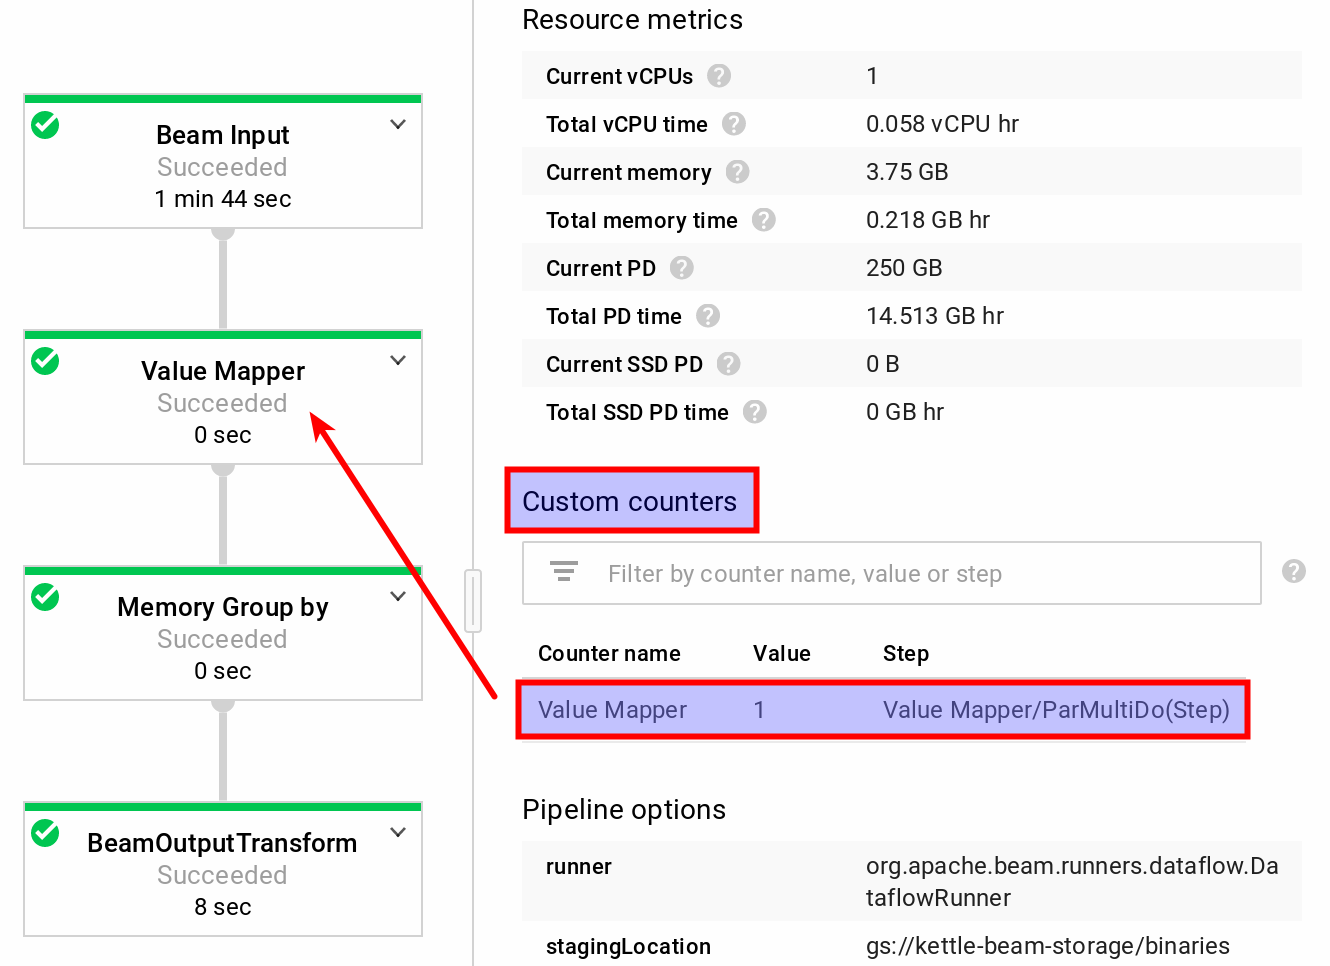
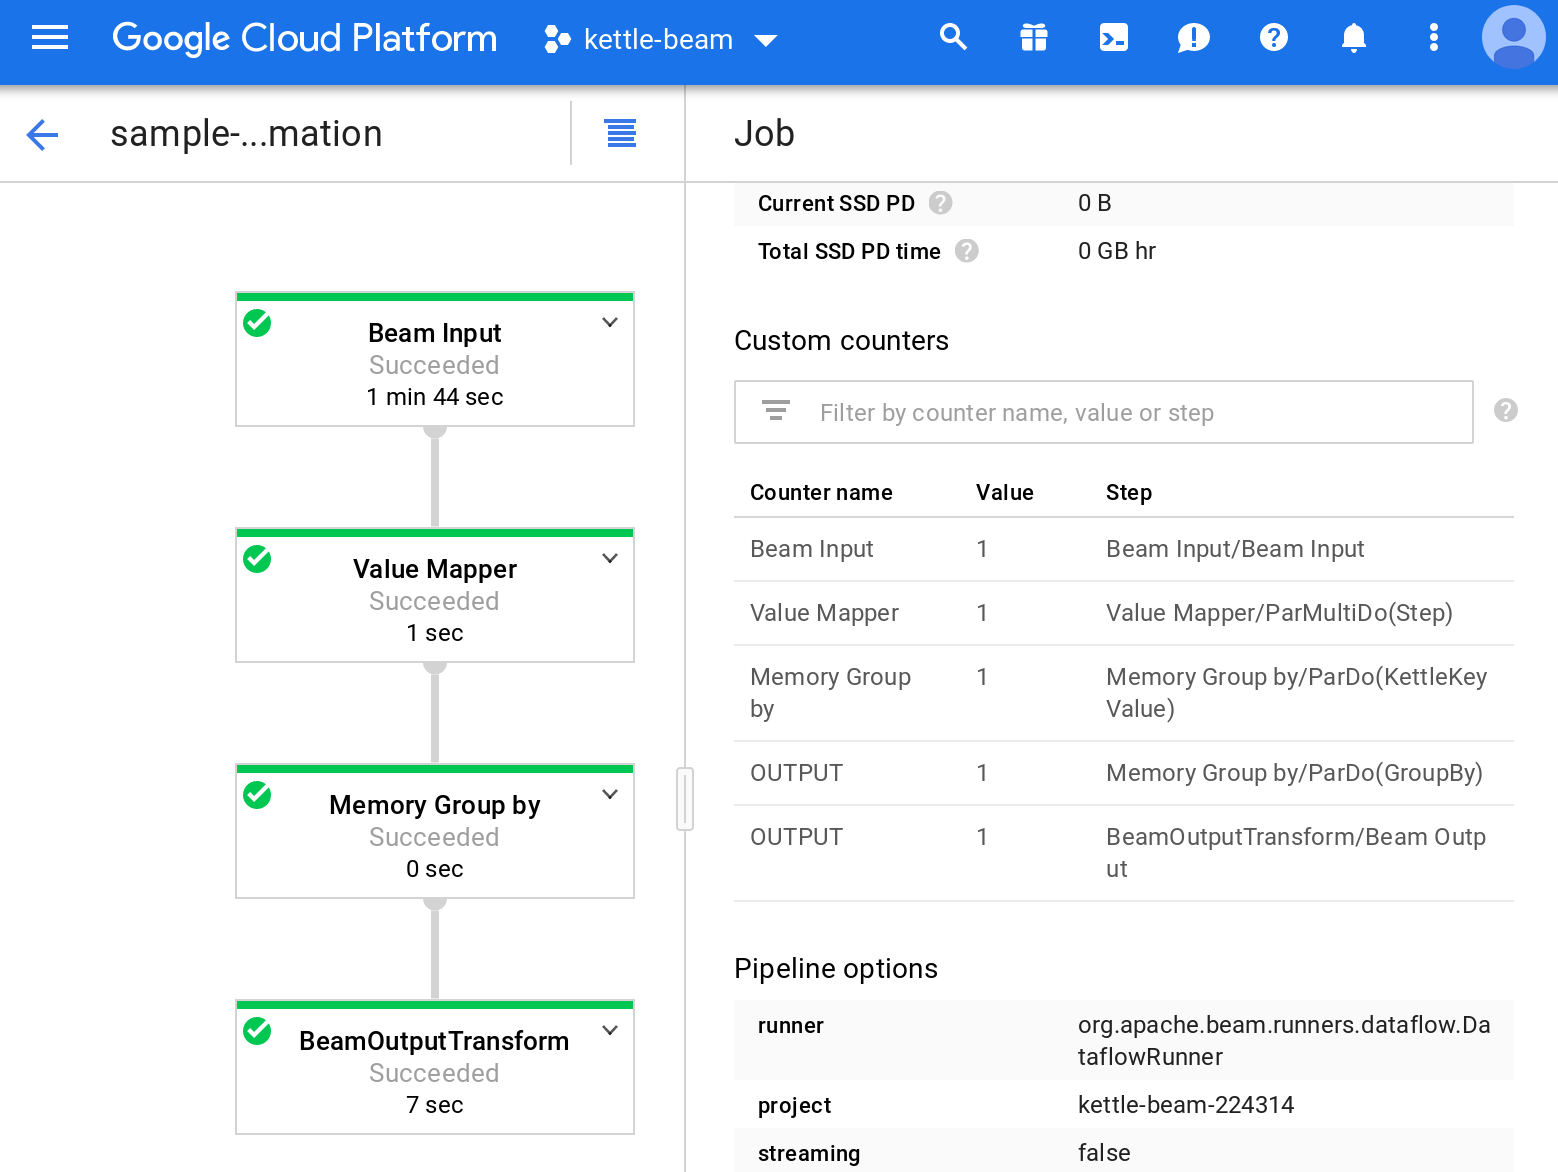
reflected recent changes to kettle-beam

diff --git a/_posts/2018-12-01-Kettle-Beam.md b/_posts/2018-12-01-Kettle-Beam.md
@@ -26,15 +26,41 @@ So here we are today looking at the rapidly evolving **Kettle Beam** project, th
 
 > **Important**: Kettle Beam Plugin is **currently under heavy development** and it's only a few days old (2018-12-01). It goes without saying that **you must not use this plugin in production**.
 
-**Special thanks** goes to **Matt Casters** for providing a lot of info for this article.
+> **Special thanks**: goes to **Matt Casters** for providing a lot of info for this article and spending a lot of his spare time in writing this very plugin we discuss here.
+
+> **Info**: For those of you who are confused why I mentioned **Kettle** quite often at the same time as **PDI** ... the reason is simple: Kettle used to be the original name to this data integration tool - before Pentaho made it part of their stack and it subsequently called it Pentaho Data Integration (PDI).
 
 **THIS ARTICLE IS STILL DEVELOPING ...**
 
-# Download Pentaho Data Integration (PDI)
+Well, why not start the article with the **art of the possible**? This is a **Kettle Beam Pipeline** Matt Casters generated to demo one of the first working more complex setups. At the top you see how the pipeline looks in Kettle/PDI's graphic design tool called **Spoon** (the pipeline is called a transformation there) and at he bottom you see the graph of the same pipeline in **Google Cloud Platform DataFlow**:
 
-You can find the **PDI package** on [Sourceforge](https://sourceforge.net/projects/pentaho/files/). Just pick the latest version 8.1 (at the time of this writing). Once downloaded, unzip it in a convenient folder and that's basically all there is to installation. Inside the PDI folder you find the `spoon.sh` file (or `spoon.bat` on Windows), which will start the GUI of the designer.
+![](/images/kettle-beam/kettle-beam-20.jpeg)
 
-# Building the plugin
+As you can see creating a **Beam Pipeline** in **Spoon** does not involve writing a single line of code ... it's all drag and drop of predefined components (steps), which you can configure.
+
+# Download Kettle/Pentaho Data Integration (PDI)
+
+You can find the **PDI package** on [Sourceforge](https://sourceforge.net/projects/pentaho/files/). Just pick the latest version 8.2. Once downloaded, unzip it in a convenient folder and that's basically all there is to installation. Inside the PDI folder you find the `spoon.sh` file (or `spoon.bat` on Windows), which will start the GUI of the designer.
+
+> **Note**: The **Kettle Beam Plugin** required Kettle/PDI v8.1 or v8.2.
+
+# Adding the Kettle Beam Plugin
+
+## Downloading the precompiled Plugin
+
+This is the easiest way of installing the plugin:
+
+1. **Download** the plugin from [here](https://s3-eu-west-1.amazonaws.com/kettle-eu/kettle-beam-20181210.zip).
+2. **Unzip** the the file.
+3. **Copy** the folder into the `plugin` folder within the **PDI folder**.
+4. **Start** Spoon: 
+
+```bash
+$ cd $PDI_DIR
+$ ./spoon.sh
+```
+
+##  Building the Plugin from Source
 
 Install Maven, in example like so (adjust to your own setup):
 
@@ -67,7 +93,7 @@ cd ~/.m2
 wget https://raw.githubusercontent.com/pentaho/maven-parent-poms/master/maven-support-files/settings.xml
 ```
 
-## Phase 1: kettle-beam-core
+### Phase 1: kettle-beam-core
 
 ```bash
 cd ~/git
@@ -82,7 +108,7 @@ Copy the `target/kettle-beam-[VERSION].jar` your the PDI `lib/` folder, e.g.:
 cp target/kettle-beam-core-0.0.4-SNAPSHOT.jar ~/apps/pdi-ce-8.1/lib
 ```
 
-## Phase 2: kettle-beam
+### Phase 2: kettle-beam
 
 Clone the plugin and start the build:
 
@@ -111,7 +137,7 @@ cp target/lib/* ~/apps/pdi-ce-8.1/lib
 rm -r ~/apps/pdi-ce-8.1/system/karaf/caches
 ```
 
-## Rapid rebuild
+### Rapid rebuild
 
 Since this project is in rapid development, you will have to rebuild the plugin regulary. Here is a small (but not perfect) **utility script** to rebuild the plugin (adjust variables):
 
@@ -179,7 +205,9 @@ Drag and drop the **Beam Input** step onto the **canvas** and double click on it
 
 ![](/images/kettle-beam/kettle-beam-4.png)
 
-> **Note**: The **Beam Input** step uses the **Beam API** for now (TextIO or some such) to read the data. This is not directly done by PDI, which makes a lot of sense since the [Beam I/O Transforms](https://beam.apache.org/documentation/io/built-in/) are more than just simple readers and writers. OPEN: What advantages do they bring?
+> **Note**: The **Beam Input** step uses the **Beam API** (TextIO or some such) to read the data. This is not directly done by PDI, which makes a lot of sense since the [Beam I/O Transforms](https://beam.apache.org/documentation/io/built-in/) are more than just simple readers and writers.
+
+> **Note**: *Wildcards* are allowed as part of the **Input location**, e.g. `/path/to/my/file*`. This way you can source multiple files at once.
 
 > **Important**: The input dataset must not have a header!
 
@@ -220,7 +248,7 @@ Double click on the **Beam Output** step. Let's configure it:
 
 - **Output location**: `${PARAM_OUTPUT_DIR}`
 - **File prefix**:
-- **File suffix**:
+- **File suffix**: Can be used in example to add a file extension, e.g. `.csv`
 - **Windowed** (unsupported):
 - **File definition to use**: Pick the output schema/definition you created earlier on. This one is actually not required any more, Kettle will fetch the metadata automatically from the incoming stream.
 
@@ -271,12 +299,20 @@ We will first set up a configuration to run the **Beam pipeline** locally. Don't
 - **Name**: `Direct`
 - **Description**: anything you fancy
 - **Runner**: The options here are `Direct`, `DataFlow`, `Flink` and `Spark`. Just pick `Direct` for now.
-- **User Agent**: `Kettle`. This a free-form field.
-- **Temporary Location**: `/tmp` (in this case in can be a local directory)
-- **Google Cloud Plaform - Dataflow**: We can leave this section empty
-- **Variables/Parameters to set**: We list here any parmaters and values that we want to use as part of our Beam pipeline.
+
+In the **General** tab define:
+
+- **User Agent**: this can be any name you fancy
+- **Temporary Storage Location**: e.g. `/tmp`  (in this case in can be a local directory)
+- **Plugin folders to stage**: comma separated list of plugins that should be included as well. Don't worry about this for now. We discuss this later.
 
 ![](/images/kettle-beam/kettle-beam-6.png)
+
+Finally click on the **Parameters** tab: We list here any parmaters and values that we want to use as part of our Beam pipeline:
+
+![](/images/kettle-beam/kettle-beam-21.jpeg)
+
+
 ## Batch VS Streaming
 
 So how do I configure the pipeline to use **streaming** and not **batch** processing you might wonder? 
@@ -430,11 +466,41 @@ Restart **Spoon** and choose **File > Open URL**. From the **Open File** dialog 
 
 ### PDI: Beam Job Config
 
-For your transformation create a dedicated **GCP DataFlow** config, e.g.:
+For your transformation create a dedicated **GCP DataFlow** config. Define:
+
+- **Name**
+- **Description**: optional
+- **Runner**: Pick `DataFlow`.
 
 ![](/images/kettle-beam/kettle-beam-7.png)
+In the **General** tab define:
 
-> **Important**: Prefix all paths with `gs://` (also for the **Temporary Location**). Also pay attention to the **Project ID**: This is not the name but - well as it says - the ID (which can be different). If you are not sure what the project ID is, simply click on the project picker at the top of the Web UI and the pop-up will show you the project name with the ID:
+- **User Agent**: this can be any name you fancy
+- **Temporary Storage Location**: e.g. `gs://kettle-beam-storage/tmp`
+- **Plugin folders to stage**: comma separated list of plugins that should be included as well. Don't worry about this for now. We discuss this later.
+
+> **Important**: Prefix all paths with `gs://` (also for the **Temporary Location**). 
+
+Next click on the **Google Cloud Platform DataFlow** tab. There is a massive list of settings available. At the minimum you have to define the first three ones:
+
+- **Project ID**: see comment further down
+- **App Name**
+- **Staging Location**
+- **Initial number of workers**
+- **Maximum number of workers**
+- **Auto scaling algorithm**
+- **Worker Machine Type**
+- **Worker Disk Type**
+- **Disk Size (GB)**
+- **Region**
+- **Zone**
+- **Streaming?**
+
+![](/images/kettle-beam/kettle-beam-23.png)
+
+The optional settings give you more control over the auto-scaling which is built-in with **GCP DataFlow**. One of the great things about **GCP DataFlow** is that you do not have to implement any logic for auto-scaling: This service takes care of it for you.
+
+> **Important**: Pay attention to the **Project ID**: This is not the name but - well as it says - the ID (which can be different). If you are not sure what the project ID is, simply click on the project picker at the top of the Web UI and the pop-up will show you the project name with the ID:
 
 ![](/images/kettle-beam/kettle-beam-11.png)
 
@@ -452,18 +518,6 @@ The first time you run the **PDI Beam pipeline** in **GCP DataFlow ** it will be
 In the **Beam Job Configuration** within the **DataFlow** settings you define under **Staging location** where to store the **binaries** (example: `gs://kettledataflow/binaries`). The first time your run your pipeline the **Google DataFlow** runner will upload the **PDI/Kettle binaries** from the lib folder to this **Staging folder**. This allows you to also include any specific **PDI plugins** that you require for your project.
 
 Note that any other file paths you define should also follow this VFS pattern, e.g. `gs://ketteldataflow/input/sales-data.csv`.
-
-**Up and coming:**
-
-- [GCP Scaling options](https://github.com/mattcasters/kettle-beam/issues/11) to define the **number of workers**, the **maximum number of workers** and the **GCP worker machine type**.
-
-```
-options.setNumWorkers( );
-options.setMaxNumWorkers( );
-options.setWorkerMachineType( );
-```
-
-These options will be available to be set via the UI at some point.
 
 ### Running the PDI Beam Pipeline
 
@@ -527,15 +581,50 @@ java.io.FileNotFoundException: No files matched spec: gs://...
 
 Make sure you have permissions to see the file! Open **Spoon** and go to **New > Open URL**. For **Location** pick **Google Cloud Storage** and paste the whole path into the **Folder** input field and hit enter. If you have the correct permissions you should see the folder/file.
 
-## Analysing the Stats
+### Analysing the Stats
 
 Via the GCP interface you can analyse the various stats around **Counters** (see **Custom Counters** section). Each **PDI step** gets its own counter here.
 
 ![](/images/kettle-beam/kettle-beam-19.png)
+The screenshot above shows that one record (OPEN - this can't be - it seems to reflect the init phase shown in the Spoon logs below only) was passed through the **Value Mapper** step.
 
-The screenshot above shows that one record was passed through the **Value Mapper** step.
+Within **Spoon** you get some more detailled logging:
 
-Currently the **Memory Group By** step doesn't provide custom counters, see [this issue](https://github.com/mattcasters/kettle-beam-core/issues/10).
+```
+2018/12/11 21:41:41 - Spoon -   ----------------- Metrics refresh @ 2018/12/11 21:41:41 -----------------------
+2018/12/11 21:41:41 - Spoon - Name: MetricName{namespace=init, name=OUTPUT} Attempted: 1 Committed: 1
+2018/12/11 21:41:41 - Spoon - Name: MetricName{namespace=read, name=Beam Input} Attempted: 8 Committed: 8
+2018/12/11 21:41:41 - Spoon - Name: MetricName{namespace=read, name=Value Mapper} Attempted: 8 Committed: 8
+2018/12/11 21:41:41 - Spoon - Name: MetricName{namespace=read, name=Memory Group by} Attempted: 8 Committed: 8
+2018/12/11 21:41:41 - Spoon - Name: MetricName{namespace=written, name=OUTPUT} Attempted: 6 Committed: 6
+2018/12/11 21:41:41 - Spoon - Name: MetricName{namespace=read, name=OUTPUT} Attempted: 6 Committed: 6
+2018/12/11 21:41:41 - Spoon - Name: MetricName{namespace=written, name=Value Mapper} Attempted: 8 Committed: 8
+2018/12/11 21:41:41 - Spoon - Name: MetricName{namespace=init, name=OUTPUT} Attempted: 1 Committed: 1
+2018/12/11 21:41:41 - Spoon - Name: MetricName{namespace=written, name=Beam Input} Attempted: 8 Committed: 8
+2018/12/11 21:41:41 - Spoon - Name: MetricName{namespace=init, name=Memory Group by} Attempted: 1 Committed: 1
+2018/12/11 21:41:41 - Spoon - Name: MetricName{namespace=init, name=Value Mapper} Attempted: 1 Committed: 1
+2018/12/11 21:41:41 - Spoon - Name: MetricName{namespace=init, name=Beam Input} Attempted: 1 Committed: 1
+2018/12/11 21:41:41 - Spoon - Name: MetricName{namespace=read, name=OUTPUT} Attempted: 6 Committed: 6
+2018/12/11 21:41:41 - Spoon - Name: MetricName{namespace=written, name=OUTPUT} Attempted: 6 Committed: 6
+```
+
+## Apache Spark
+
+### PDI Job Configuration
+
+Define:
+
+- **Name**
+- **Description**: optional
+- **Runner**: Pick `Spark`.
+
+In the **General** tab define:
+
+- **User Agent**: this can be any name you fancy
+- **Temporary Storage Location**: 
+- **Plugin folders to stage**: comma separated list of plugins that should be included as well. Don't worry about this for now. We discuss this later.
+
+![](/images/kettle-beam/kettle-beam-24.png)
 
 # Job Orchestration
 
